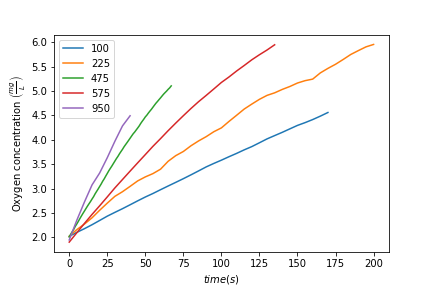
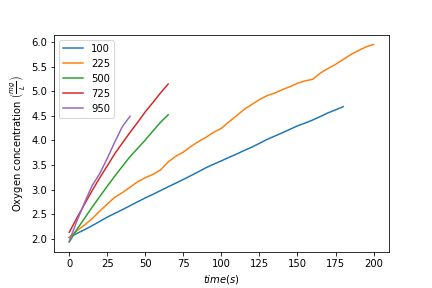
graph again

diff --git a/Lab4-Gas Transfer/group1_gas_transfer_postlab.md b/Lab4-Gas Transfer/group1_gas_transfer_postlab.md
@@ -83,11 +83,13 @@ dirpath = "/Users/Jiwon Lee/github/rosie/Lab4-Gas Transfer/Aeration/Aeration"
 dirpath='/Users/Rosie/github/CEE4530/Lab4-Gas Transfer/Aeration/Aeration/'
 filepaths, airflows, DO_data, time_data = aeration_data(DO_column,dirpath)
 
+airflows.size
+
 ## Number 1
 #delete data that is less than 2 or greater than 6 mg/L
 DO_min = 2 * u.mg/u.L
 DO_max = 6 * u.mg/u.L
-for i in range(1,airflows.size,4):
+for i in range(airflows.size):
   idx_start = (np.abs(DO_data[i]-DO_min)).argmin()
   idx_end = (np.abs(DO_data[i]-DO_max)).argmin()
   time_data[i] = time_data[i][idx_start:idx_end] - time_data[i][idx_start]
@@ -103,11 +105,11 @@ plt.legend(airflows.magnitude)
 plt.show()
 
 #pick 5 representative values
-plt.plot(time_data[0], DO_data[0],'-', time_data[4], DO_data[4],'-', time_data[10], DO_data[10],'-', time_data[13], DO_data[13],'-', time_data[22], DO_data[22],'-')
+plt.plot(time_data[0], DO_data[0],'-', time_data[4], DO_data[4],'-', time_data[10], DO_data[10],'-', time_data[15], DO_data[15],'-', time_data[22], DO_data[22],'-')
 plt.xlabel(r'$time (s)$')
 plt.ylabel(r'Oxygen concentration $\left ( \frac{mg}{L} \right )$')
-plt.legend(['100', '225', '475', '575', '950'])
-#plt.savefig('C:/Users/Jiwon Lee/github/rosie/Lab4-Gas Transfer/DO_vs_Time.png')
+plt.legend(['100', '225', '500', '725', '950'])
+plt.savefig('C:/Users/Jiwon Lee/github/rosie/Lab4-Gas Transfer/DO_vs_Time.png')
 plt.show()
 
 ## Number 3
